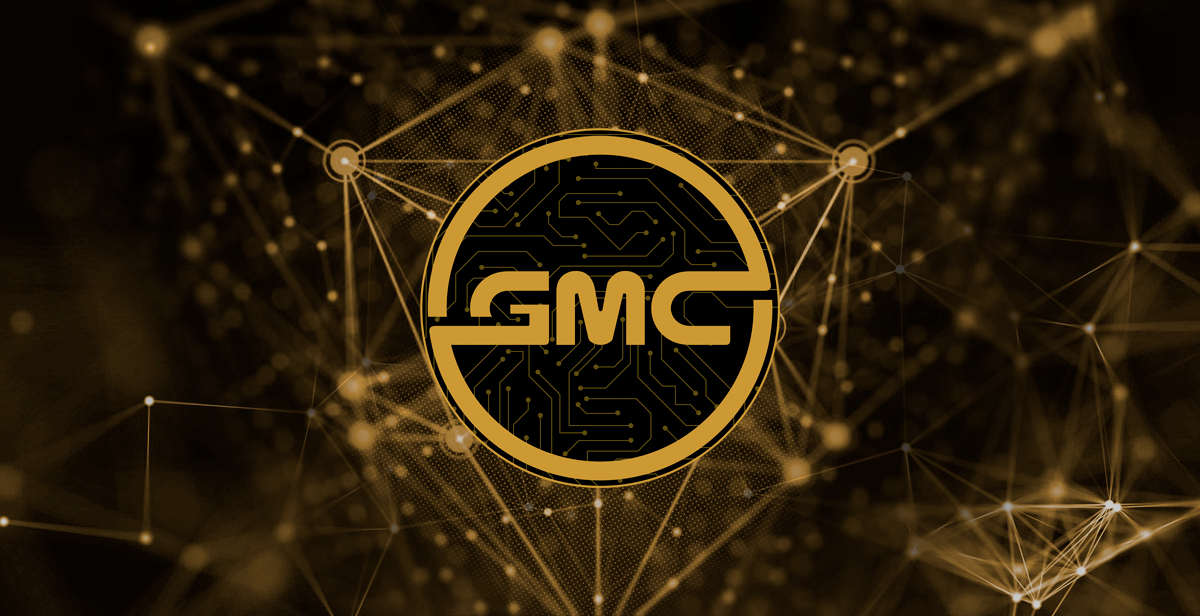
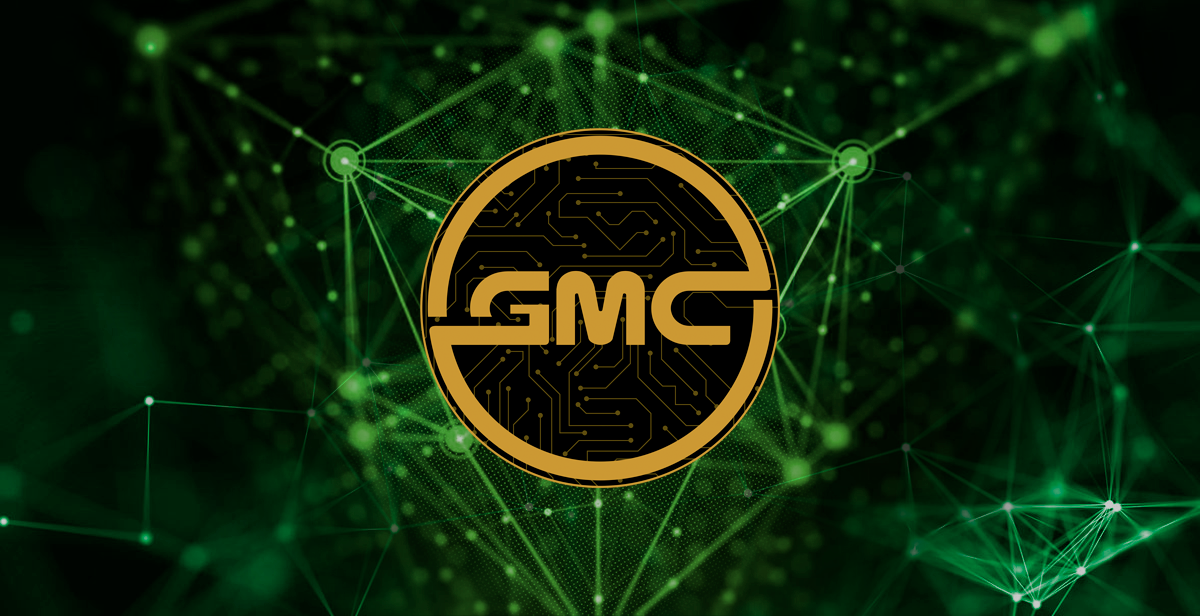
design

diff --git a/src/qt/res/css/default.css b/src/qt/res/css/default.css
@@ -1,14 +1,14 @@
 /****************************************************************************************/
 /*                                 GOLD METAL COIN                                      */
 /* Global color codes:                                                                  */
-/* dark-green:        #eea807                                                           */
+/* dark-green:        #4cee07                                                          */
 /* transparent-green: #e9e7ef (for inactive backgrounds)                                */
 /*                                                                                      */
-/* light-green1:      #d19724 (main green for white backgrounds)                        */
-/* light-green2:      #a36e0a (sligtly darker for gradients)                            */
+/* light-green1:      #52d124 (main green for white backgrounds)                        */
+/* light-green2:      #26a30a (sligtly darker for gradients)                            */
 /*                                                                                      */
-/* medium-green1:     #a36e0a (on hover)                                                */
-/* medium-green1:     #624100 (main green for dark backgrounds)                         */
+/* medium-green1:     #26a30a (on hover)                                                */
+/* medium-green1:     #2c6200 (main green for dark backgrounds)                         */
 /* medium-green2:     #004000 (sligtly darker for gradients)                            */
 /*                                                                                      */
 /* background:         #f8f6f6                                                          */
@@ -70,14 +70,14 @@ QMenu::item:selected {
 }
 
 QToolBar {
-	background-color: #ffbf00;
+	background-color: #537c2b;
 	border: 0px solid #fff;
 	padding: 0;
 	margin: 0;
 }
 
 QToolBar > QToolButton {
-	background-color:#ffbf00;
+	background-color:#537c2b;
 	border:0px solid #333;
 	selection-background-color:transparent;
 	min-height: 2.5em;
@@ -85,20 +85,20 @@ QToolBar > QToolButton {
 	font-weight: bold;
 	font-size: 13px;
 	color: #000;
-	border-bottom: 3px solid #ffd559;
+	border-bottom: 3px solid #70a73a;
 }
 
 QToolBar > QToolButton:checked {
-	background-color: #ffbf00;
+	background-color: #537c2b;
 	color: #000;
-    border-bottom: 3px solid #ffbf00;
+    border-bottom: 3px solid #537c2b;
 	font-weight:bold;
 }
 
 QToolBar > QToolButton:hover {
-	background-color: #ffbf00;
+	background-color: #537c2b;
 	color: #000;
-	border-bottom: 3px solid #ffbf00;
+	border-bottom: 3px solid #537c2b;
 }
 
 QMessageBox {
@@ -106,15 +106,15 @@ QMessageBox {
 }
 
 QProgressBar {
-	color: #634200;
-	border: 1px solid #634200;
+	color: #275014;
+	border: 1px solid #275014;
 	border-radius: 50px;
 	background-color: transparent;
 	border-style: none;
 }
 
 QProgressBar::chunk {
-	background-color: #ffae00;
+	background-color: #00ff37;
 	width: 20px;
 }
 
@@ -135,7 +135,7 @@ QTabWidget::pane {
 }
 
 QTabBar {
-	background-color:#eea807;
+	background-color:#2aee07;
 	color:#333;
 }
 
@@ -144,7 +144,7 @@ QTabBar::tab:hover:!selected {
 }
 
 QWidget {
-	selection-background-color:#eea807; /* Object highlight color */
+	selection-background-color:#2aee07; /* Object highlight color */
 	selection-color:#fff;
 	outline:0; /* Remove Annoying Focus Rectangle */
 }
@@ -229,7 +229,7 @@ QLabel { /* Base Text Size & Color */
 
 QPushButton{ /* Global Button Style */
 
-	background-color: #eea807;
+	background-color: #2aee07;
 	border: 0;
 	color:#333;
 	font-size:12px;
@@ -245,11 +245,11 @@ QPushButton{ /* Global Button Style */
 }
 
 QPushButton:hover {
-background-color: #bc860b;
+background-color: #2bbc0b;
 }
 
 QPushButton:pressed{
-background-color: #d9a109;
+background-color: #2fd909;
 	border:1px solid #333333;
 }
 
@@ -292,7 +292,7 @@ QComboBox:checked {
 }
 
 QComboBox:editable {
-	background:#eea807;
+	background:#2aee07;
 	color:#616161;
 	border:0px solid transparent;
 }
@@ -404,7 +404,7 @@ QHeaderView { /* Table Header */
 
 QHeaderView::section { /* Table Header Sections */
 	qproperty-alignment:center;
-	background-color: #eea807;
+	background-color: #2aee07;
 	color:#333;
 	min-height:25px;
 	font-weight:bold;
@@ -450,7 +450,7 @@ QTableView::item { /* Table Item */
 }
 
 QTableView::item:selected { /* Table Item Selected */
-	background-color:#eea807;
+	background-color:#2aee07;
 	color:#fff;
 }
 
@@ -487,7 +487,7 @@ QScrollBar::handle:vertical { /* Scroll Bar Slider - vertical */
 }
 
 QScrollBar::handle:vertical:pressed { /* Scroll Bar Slider - vertical */
-	background:#eea807;
+	background:#2aee07;
 	min-height:10px;
 }
 
@@ -504,7 +504,7 @@ QScrollBar::handle:horizontal { /* Scroll Bar Slider - horizontal */
 }
 
 QScrollBar::handle:horizontal:pressed { /* Scroll Bar Slider - horizontal */
-	background:#eea807;
+	background:#2aee07;
 	min-width:10px;
 }
 
@@ -572,14 +572,14 @@ QSlider::groove:horizontal {
 }
 
 QSlider::sub-page:horizontal {
-	background-color: qlineargradient(x1: 0, y1: 0, x2: 1, y2: 0, stop: 0 #a36e0a, stop: 1 #d19724);
+	background-color: qlineargradient(x1: 0, y1: 0, x2: 1, y2: 0, stop: 0 #26a30a, stop: 1 #52d124);
 	border: 1px solid #333;
 	height: 10px;
 	border-radius: 4px;
 }
 
 QSlider::add-page:horizontal {
-	background: qlineargradient(x1: 0, y1: 0, x2: 1, y2: 0, stop: 0 #eea807, stop: 1 #a36e0a);
+	background: qlineargradient(x1: 0, y1: 0, x2: 1, y2: 0, stop: 0 #2aee07, stop: 1 #26a30a);
 	border: 1px solid #333;
 	height: 10px;
 	border-radius: 4px;
@@ -596,7 +596,7 @@ QSlider::handle:horizontal {
 }
 
 QSlider::handle:horizontal:hover {
-	background-color: #eea807;
+	background-color: #2aee07;
 	border: 2px solid #333;
 	width: 16px;
 	height: 16px;
@@ -637,7 +637,7 @@ QTabWidget QTabBar::tab:last {
 }
 
 QTabWidget QTabBar::tab:selected, QTabWidget QTabBar::tab:hover {
-	background-color:#eea807;
+	background-color:#2aee07;
 	color:#fff;
 }
 
@@ -655,7 +655,7 @@ QDialog .QTabWidget {
 }
 
 QDialog .QTabWidget::pane {
-	border: 1px solid #eea807;
+	border: 1px solid #2aee07;
 }
 
 QDialog .QTabWidget QTabBar::tab {
@@ -677,7 +677,7 @@ QDialog .QTabWidget QTabBar::tab:last {
 }
 
 QDialog .QTabWidget QTabBar::tab:selected, QDialog .QTabWidget QTabBar::tab:hover {
-	background-color:#eea807;
+	background-color:#2aee07;
 	color:#333;
 }
 
@@ -760,7 +760,7 @@ QWidget#AddressBookPage QHeaderView::section { /* Min width for Windows fix */
 /* QDialog#MultisigDialog QPushButton { */
 /* QDialog#MultisigDialog QFrame#addressFrame { */
 QDialog#MultisigDialog  QFrame#addressFrame .QPushButton {
-  background-color: #eea807;
+  background-color: #2aee07;
 	border: 0;
 	color:#333;
 	font-size:12px;
@@ -777,11 +777,11 @@ QDialog#MultisigDialog  QFrame#addressFrame .QPushButton {
 
 
 QDialog#MultisigDialog  QFrame#addressFrame .QPushButton:hover {
-background-color: #bc860b;
+background-color: #2bbc0b;
 }
 
 QDialog#MultisigDialog  QFrame#addressFrame .QPushButton:pressed{
-background-color: #d9a109;
+background-color: #2fd909;
 	border:1px solid #333333;
 }
 
@@ -792,7 +792,7 @@ background-color: #212121;
 }
 
 QDialog#MultisigDialog  QFrame#addressFrame .QPushButton {
-  background-color: #eea807;
+  background-color: #2aee07;
 	border: 0;
 	color:#333;
 	font-size:12px;
@@ -809,11 +809,11 @@ QDialog#MultisigDialog  QFrame#addressFrame .QPushButton {
 
 
 QDialog#MultisigDialog  QFrame#addressFrame .QPushButton:hover {
-background-color: #bc860b;
+background-color: #2bbc0b;
 }
 
 QDialog#MultisigDialog  QFrame#addressFrame .QPushButton:pressed{
-background-color: #d9a109;
+background-color: #2fd909;
 	border:1px solid #333333;
 }
 
@@ -824,7 +824,7 @@ background-color: #212121;
 }
 
 QDialog#MultisigDialog  QFrame#addressFrame .QPushButton {
-  background-color: #eea807;
+  background-color: #2aee07;
 	border: 0;
 	color:#333;
 	font-size:12px;
@@ -841,11 +841,11 @@ QDialog#MultisigDialog  QFrame#addressFrame .QPushButton {
 
 
 QDialog#MultisigDialog  QFrame#txInputFrame .QPushButton:hover {
-background-color: #bc860b;
+background-color: #2bbc0b;
 }
 
 QDialog#MultisigDialog  QFrame#txInputFrame .QPushButton:pressed{
-background-color: #d9a109;
+background-color: #2fd909;
 	border:1px solid #333333;
 }
 
@@ -856,11 +856,11 @@ background-color: #212121;
 }
 
 QDialog#MultisigDialog  QFrame#destinationFrame .QPushButton:hover {
-background-color: #bc860b;
+background-color: #2bbc0b;
 }
 
 QDialog#MultisigDialog  QFrame#destinationFrame .QPushButton:pressed{
-background-color: #d9a109;
+background-color: #2fd909;
 	border:1px solid #333333;
 }
 
@@ -930,7 +930,7 @@ QDialog#RPCConsole QWidget#tab_info QLabel#label_11, QDialog#RPCConsole QWidget#
 }
 
 QDialog#RPCConsole QWidget#tab_peers QLabel#peerHeading { /* Peers Info Header */
-	color:#eea807;
+	color:#2aee07;
 }
 
 QDialog#RPCConsole QTableView#peerWidget::item { /* Peers Table Items */
@@ -958,7 +958,7 @@ QDialog#RPCConsole QPushButton#clearButton { /* Console Clear Button */
 }
 
 QDialog#RPCConsole .QGroupBox #line { /* Network In Line */
-	background-color:#eea807;
+	background-color:#2aee07;
 }
 
 QDialog#RPCConsole .QGroupBox #line_2 { /* Network Out Line */
@@ -1099,7 +1099,7 @@ QWidget .QFrame#frameBalances .QLabel#labelBalances { /* VLC Balances Header Lab
 }
 
 QWidget .QFrame#frameBalances #lineBalances { /* VLC Balances Line separator */
-	background-color:#eea807;
+	background-color:#2aee07;
 }
 
 
@@ -1108,14 +1108,14 @@ QWidget .QFrame#frameBalances .QLabel#labelAvailable { /* Available Balance */
 	qproperty-alignment: 'AlignVCenter | AlignLeft';
 	font-size: 14px;
 	font-weight: bold;
-	color: #eea807;
+	color: #2aee07;
 }
 
 QWidget .QFrame#frameBalances .QLabel#labelLocked { /* Locked Balance */
 	qproperty-alignment: 'AlignVCenter | AlignLeft';
 	font-size: 14px;
 	font-weight: normal;
-	color: #eea807;
+	color: #2aee07;
 }
 
 QWidget .QFrame#frameBalances .QLabel#labelWatchTotal { /* Watch-only Total Balance */
@@ -1258,10 +1258,10 @@ QDialog#Bip38ToolDialog .QToolButton,
 QDialog#MultiSendDialog .QToolButton,
 QDialog#SignVerifyMessageDialog .QToolButton,
 QDialog#MultisigDialog .QToolButton {
-	background-color: #eea807;
+	background-color: #2aee07;
 	border-width: 1px;
 	border-style: outset;
-	border-color: #624100;
+	border-color: #2c6200;
 	border-radius: 2px;
 	color:#ffffff;
 	font-size:12px;
@@ -1273,7 +1273,7 @@ QStackedWidget#SendCoinsEntry .QToolButton:hover, /* General Settings for Pay To
 QDialog#Bip38ToolDialog .QToolButton:hover,
 QDialog#MultiSendDialog .QToolButton:hover,
 QDialog#SignVerifyMessageDialog .QToolButton:hover {
-	background-color: #bc860b;
+	background-color: #2bbc0b;
 }
 
 QStackedWidget#SendCoinsEntry .QToolButton:focus,  /* General Settings for Pay To Icons */
@@ -1402,7 +1402,7 @@ QDialog#CoinControlDialog .CoinControlTreeWidget#treeWidget::item {
 }
 
 QDialog#CoinControlDialog .CoinControlTreeWidget#treeWidget::item:selected { /* Coin Control Item (selected) */
-	background-color:#eea807;
+	background-color:#2aee07;
 	color:#fff;
 }
 
@@ -1477,7 +1477,7 @@ QWidget#ReceiveCoinsDialog .QFrame#frame2 QPushButton:pressed {
 }
 
 QWidget#ReceiveCoinsDialog .QFrame#frame .QLabel#label_6 { /* Requested Payments History Label */
-	color:#eea807;
+	color:#2aee07;
 	font-weight:bold;
 	font-size:14px;
 }
@@ -1534,7 +1534,7 @@ QCalendarView {
 }
 
 QCalendarWidget QWidget#qt_calendar_navigationbar { /* Calendar widget navigation bar */
-	background-color:#eea807;
+	background-color:#2aee07;
 	font-weight:bold;
 }
 
